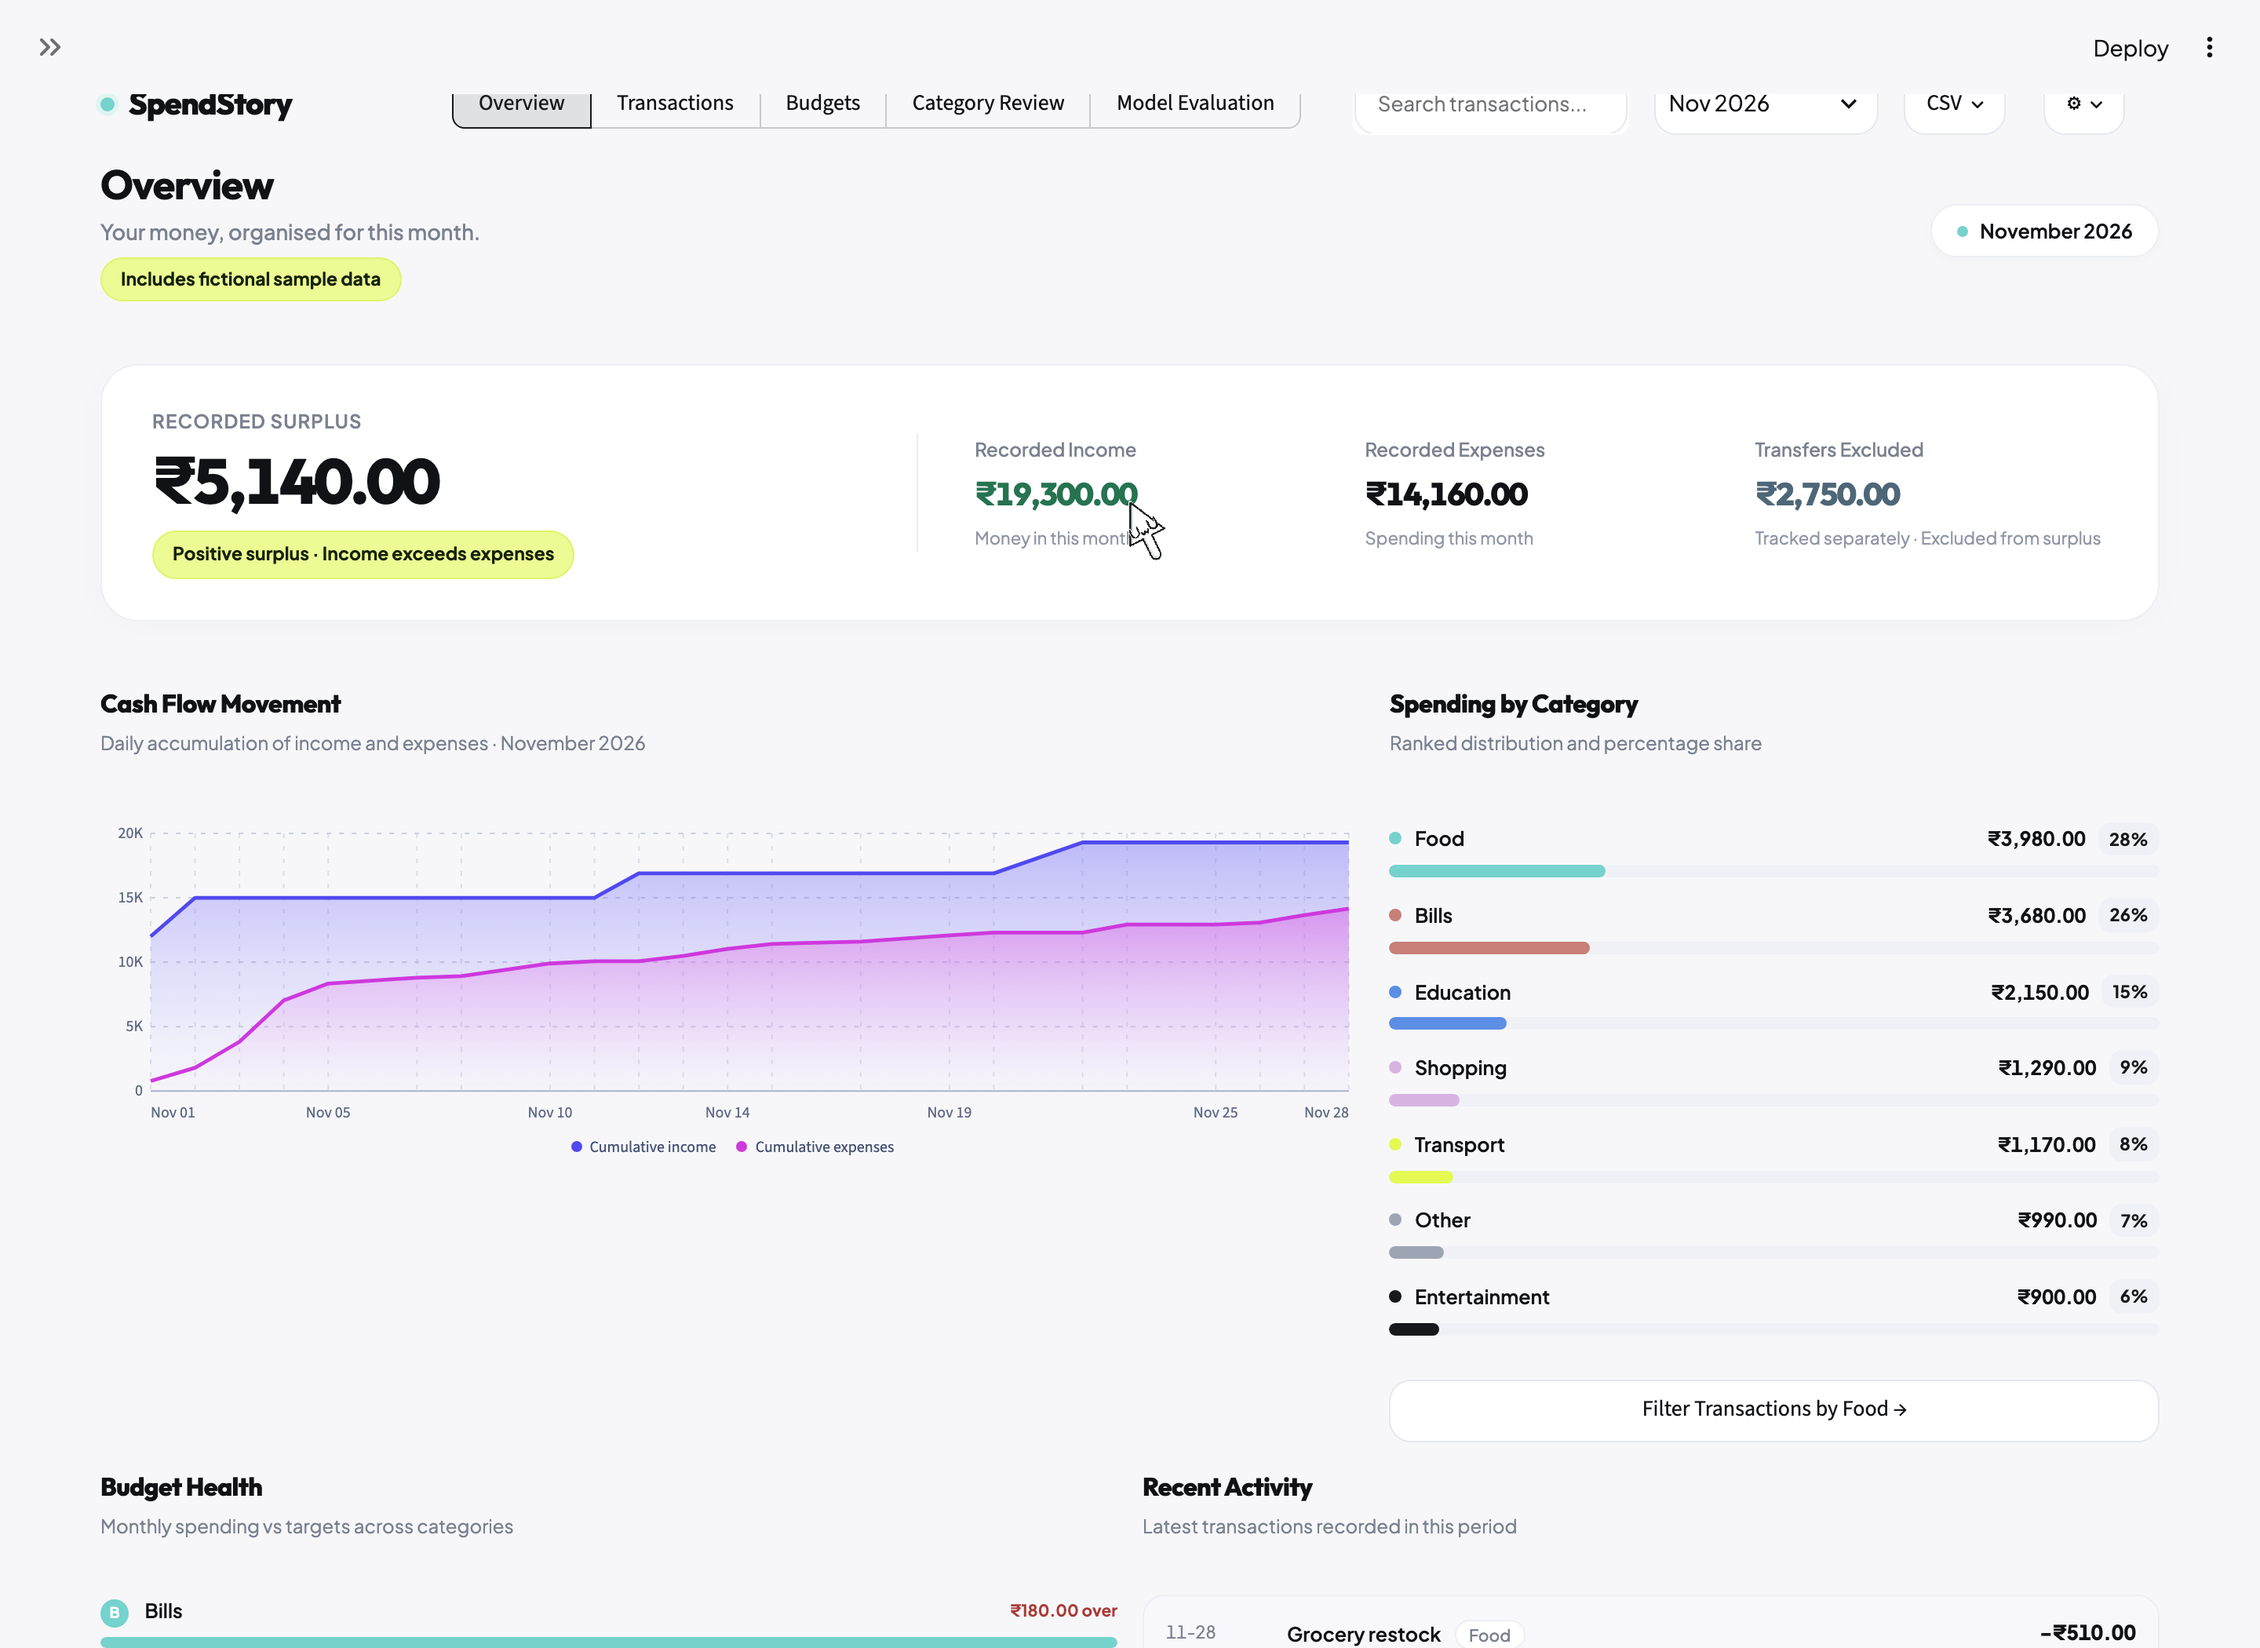
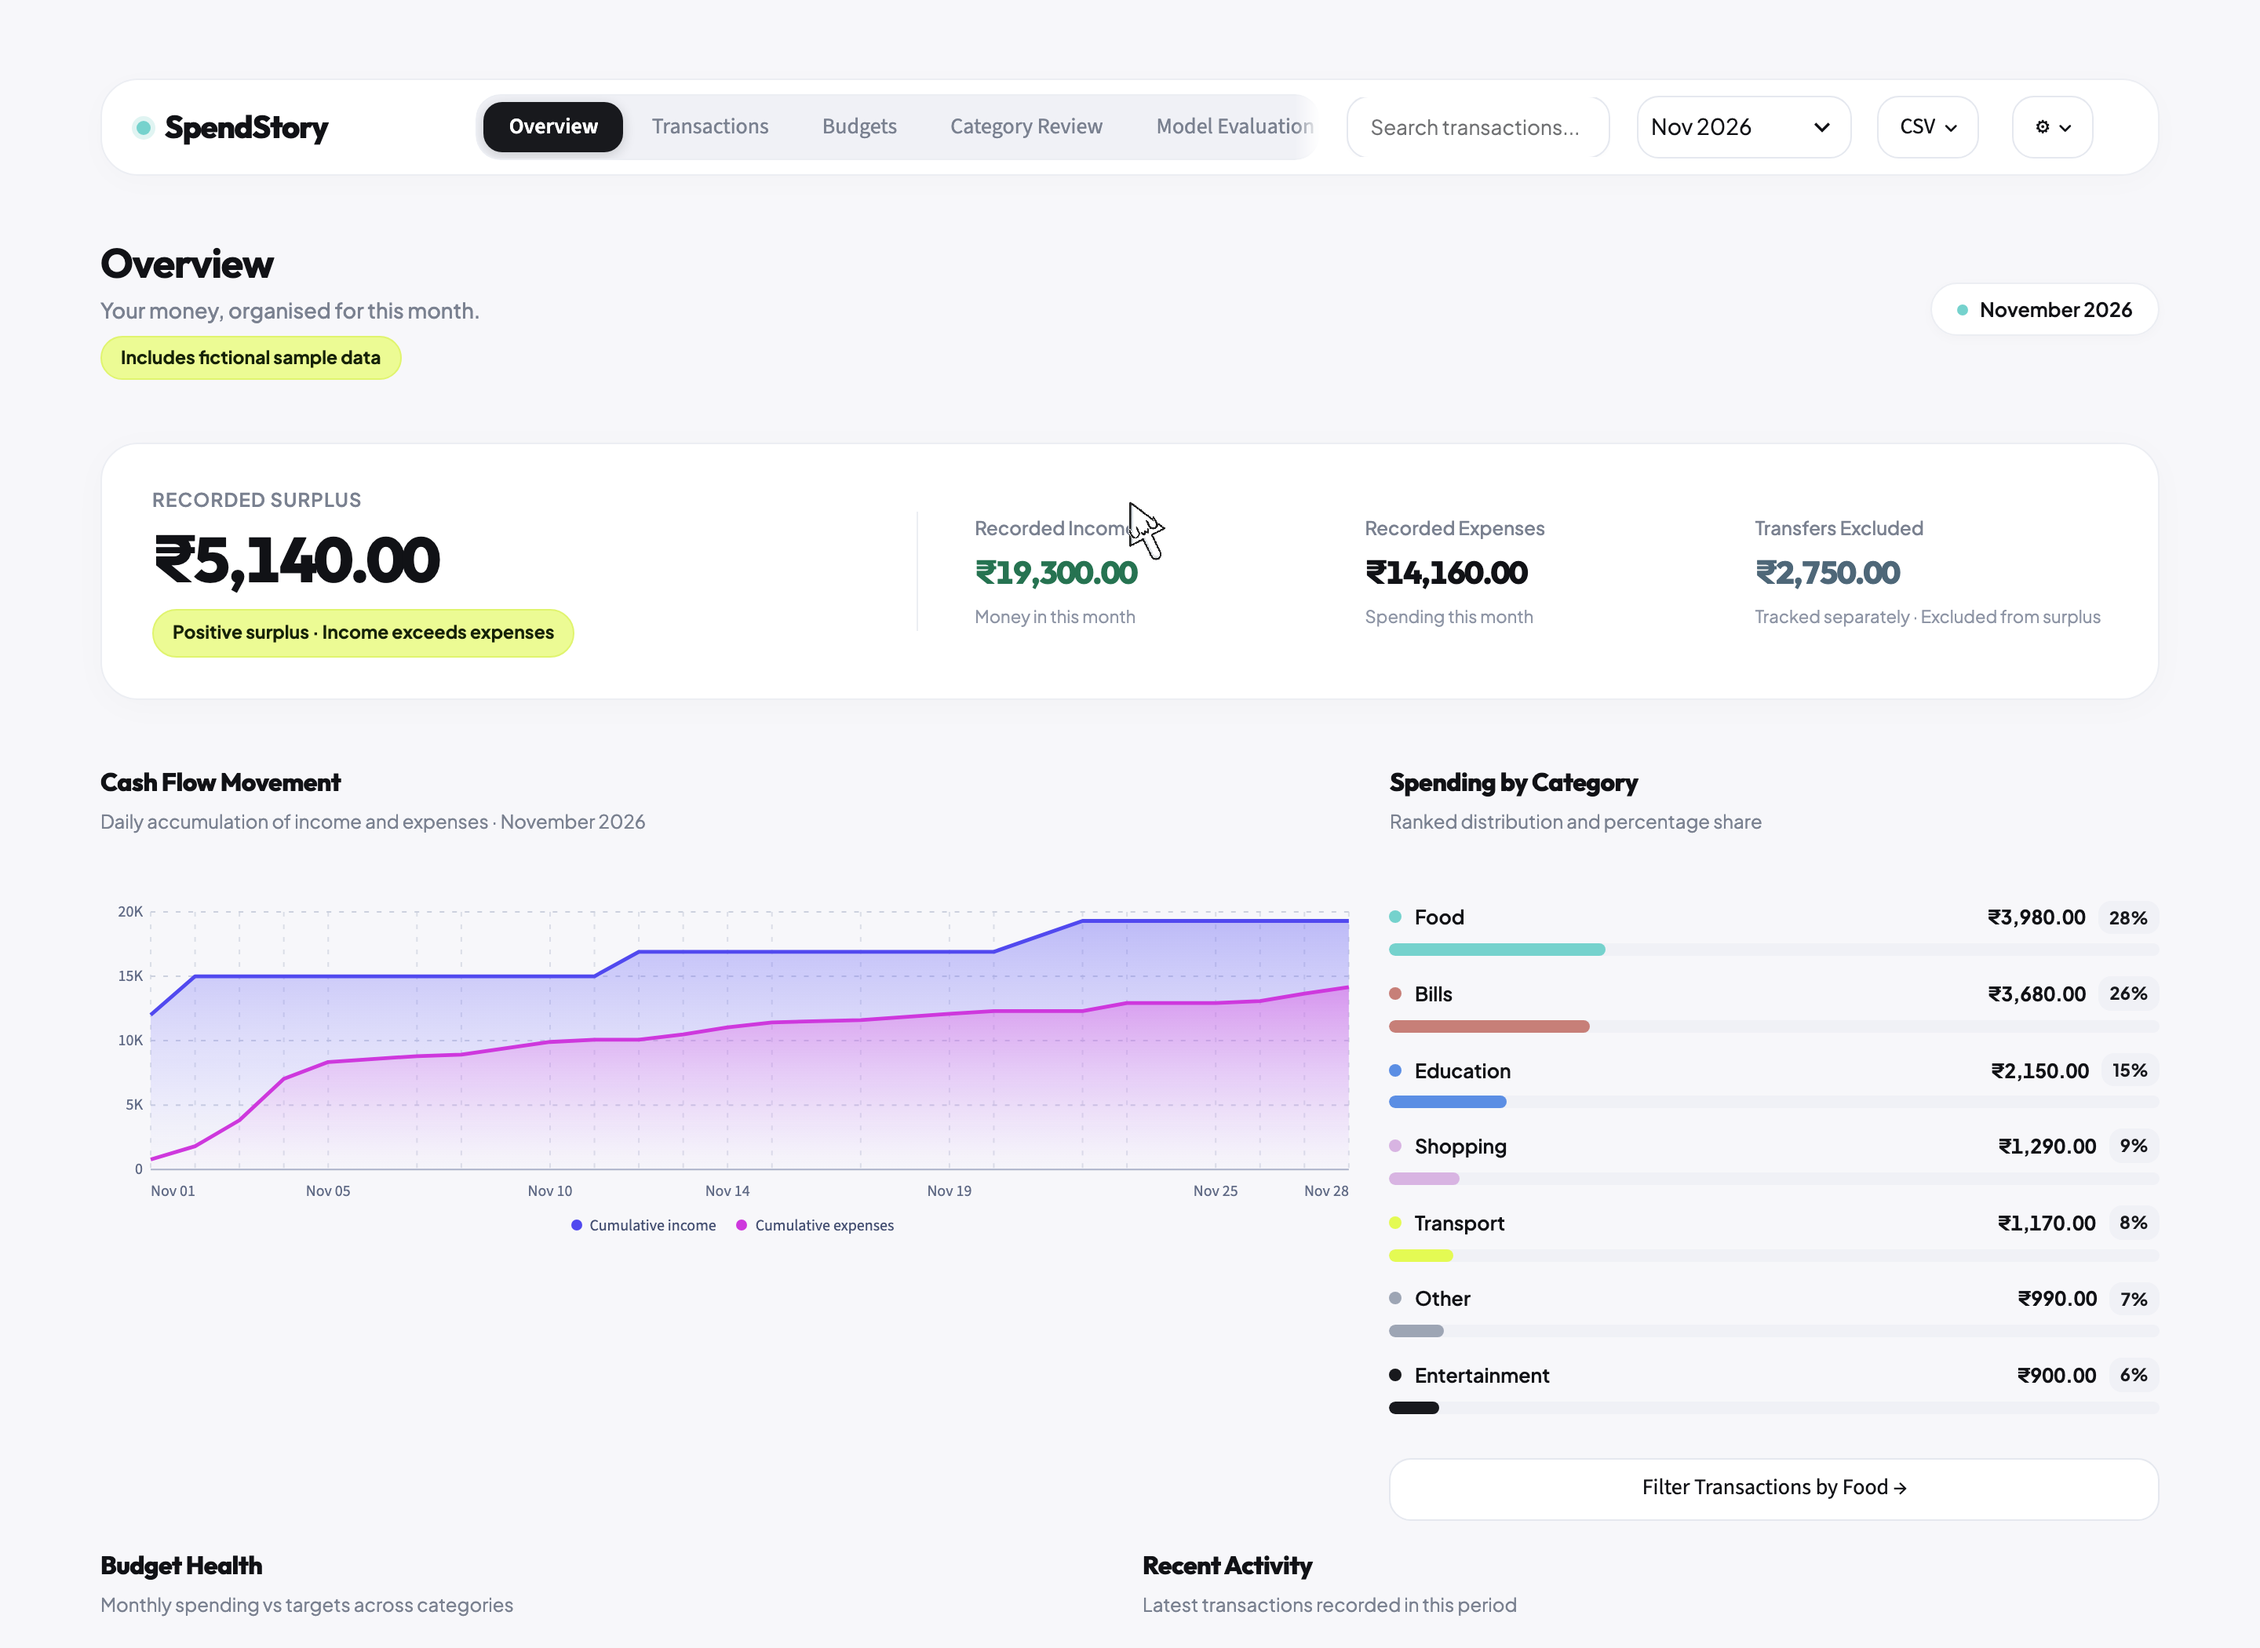
fix(navbar): eliminate top-left chevron and deploy header artifacts, style top_app_header card and segmented control button group

diff --git a/app.py b/app.py
@@ -67,10 +67,14 @@ SPENDSTORY_CSS = """
     color: #111216;
 }
 
-/* Hide Streamlit default sidebar and sidebar toggle on desktop */
-[data-testid="stSidebar"], [data-testid="stSidebarCollapsedControl"] {
+/* Hide Streamlit default header, toolbar, sidebar, and expand toggle */
+header[data-testid="stHeader"],
+[data-testid="stSidebar"],
+[data-testid="stSidebarCollapsedControl"],
+[data-testid="stExpandSidebarButton"] {
     display: none !important;
     width: 0 !important;
+    height: 0 !important;
     min-width: 0 !important;
     max-width: 0 !important;
     padding: 0 !important;
@@ -82,7 +86,7 @@ SPENDSTORY_CSS = """
 /* Main workspace centered layout */
 .stMainBlockContainer, [data-testid="stMainBlockContainer"], .block-container {
     max-width: 1360px !important;
-    padding-top: 14px !important;
+    padding-top: 18px !important;
     padding-bottom: 48px !important;
     padding-left: 24px !important;
     padding-right: 24px !important;
@@ -97,14 +101,19 @@ iframe[height="0"], [data-testid="stCustomComponentV1"]:has(iframe[height="0"]) 
     padding: 0 !important;
 }
 
-/* Top Application Header */
+/* Top Application Header Card */
+.st-key-top_app_header,
 .top-navbar-card {
-    background: #FFFFFF;
-    border: 1px solid #ECEEF3;
-    border-radius: 24px;
-    padding: 12px 22px;
-    margin-bottom: 24px;
-    box-shadow: 0 4px 20px rgba(0, 0, 0, 0.02);
+    background: #FFFFFF !important;
+    border: 1px solid #ECEEF3 !important;
+    border-radius: 24px !important;
+    padding: 10px 22px !important;
+    margin-bottom: 24px !important;
+    box-shadow: 0 4px 20px rgba(0, 0, 0, 0.02) !important;
+}
+
+.st-key-top_app_header > div[data-testid="stHorizontalBlock"] {
+    align-items: center !important;
 }
 
 .brand-header {
@@ -128,38 +137,74 @@ iframe[height="0"], [data-testid="stCustomComponentV1"]:has(iframe[height="0"]) 
     box-shadow: 0 0 0 3px #E0F4F2;
 }
 
-/* Segmented Control Pills in Top Header */
+/* Segmented Control / ButtonGroup Pills in Top Header */
+[data-testid="stButtonGroup"],
+[data-testid="stSegmentedControl"] {
+    background: transparent !important;
+}
+
+[data-testid="stButtonGroup"] label,
+[data-testid="stSegmentedControl"] label {
+    display: none !important;
+}
+
+[data-testid="stButtonGroup"] > div[role="radiogroup"],
+[data-testid="stSegmentedControl"] > div[role="radiogroup"],
 [data-testid="stSegmentedControl"] {
     background: #F0F1F6 !important;
     border-radius: 16px !important;
     padding: 4px !important;
     border: 1px solid #ECEEF3 !important;
     display: inline-flex !important;
+    gap: 3px !important;
     width: auto !important;
 }
 
+[data-testid="stButtonGroup"] button,
+[data-testid="stButtonGroup"] button[data-variant="segmented_control"],
+[data-testid="stButtonGroup"] button:not(:first-child),
+[data-testid="stButtonGroup"] button:not(:last-child),
 [data-testid="stSegmentedControl"] button {
     font-family: 'Plus Jakarta Sans', sans-serif !important;
     font-size: 13px !important;
     font-weight: 600 !important;
     border-radius: 12px !important;
-    border: none !important;
+    border: 0 !important;
+    border-color: transparent !important;
+    outline: none !important;
     color: #7A8190 !important;
     padding: 7px 16px !important;
     background: transparent !important;
     transition: all 0.15s ease !important;
+    box-shadow: none !important;
 }
 
+[data-testid="stButtonGroup"] button:hover,
+[data-testid="stButtonGroup"] button[data-variant="segmented_control"]:hover,
 [data-testid="stSegmentedControl"] button:hover {
     color: #111216 !important;
     background: rgba(255, 255, 255, 0.7) !important;
 }
 
+[data-testid="stButtonGroup"] button[aria-checked="true"],
+[data-testid="stButtonGroup"] button[data-selected="true"],
+[data-testid="stButtonGroup"] button[data-variant="segmented_control"][aria-checked="true"],
 [data-testid="stSegmentedControl"] button[aria-checked="true"],
 [data-testid="stSegmentedControl"] button[data-checked="true"] {
     background: #18191D !important;
     color: #FFFFFF !important;
     box-shadow: 0 2px 8px rgba(24, 25, 29, 0.18) !important;
+    border: 0 !important;
+}
+
+[data-testid="stButtonGroup"] button[aria-checked="true"] p,
+[data-testid="stButtonGroup"] button[aria-checked="true"] span,
+[data-testid="stButtonGroup"] button[aria-checked="true"] div,
+[data-testid="stSegmentedControl"] button[aria-checked="true"] p,
+[data-testid="stSegmentedControl"] button[aria-checked="true"] span,
+[data-testid="stSegmentedControl"] button[aria-checked="true"] div {
+    color: #FFFFFF !important;
+    font-weight: 600 !important;
 }
 
 /* Compact utility inputs in header */
